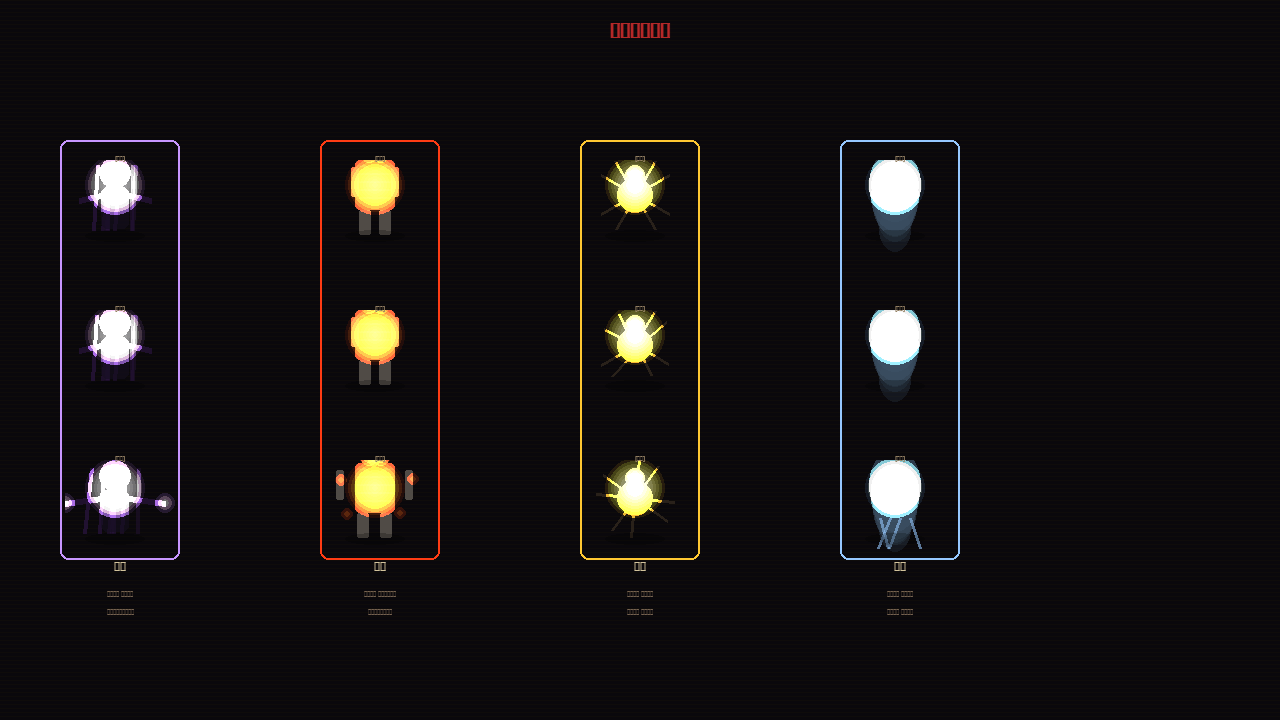
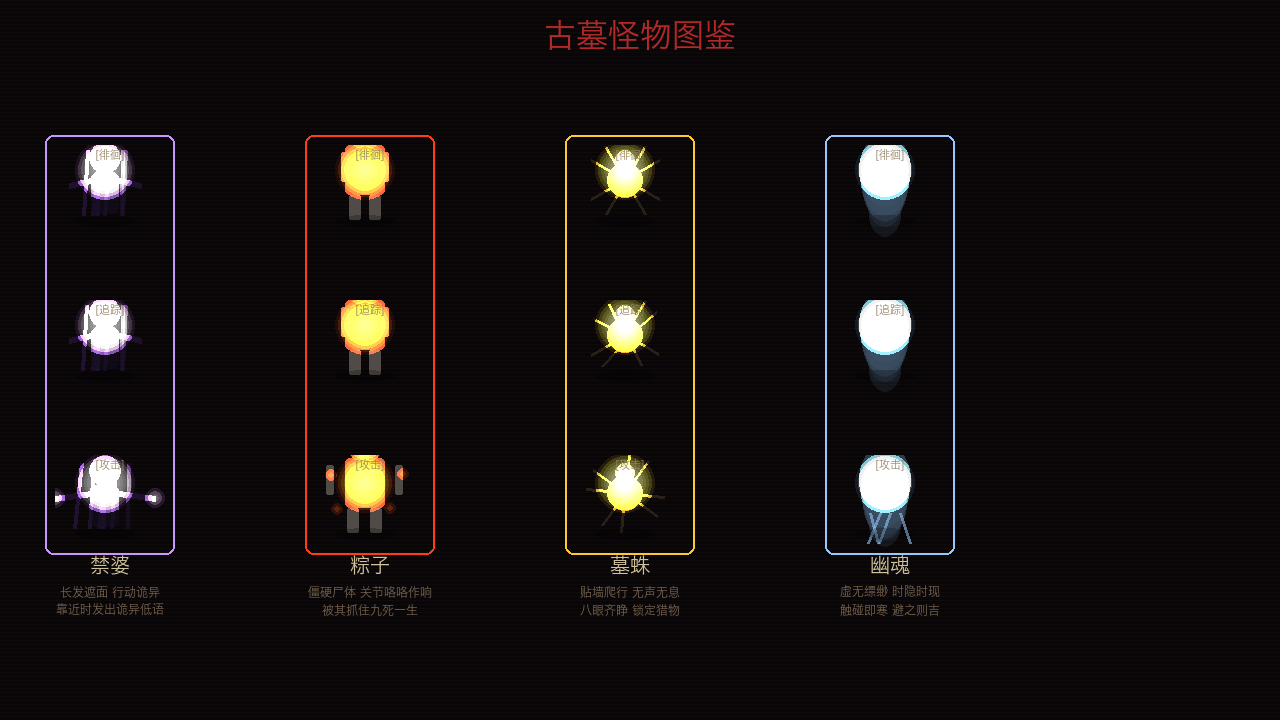
📸 添加游戏测试效果图 (8张) + 更新README
测试效果截图：
- 01_main_menu.png - 主菜单（中文字体验证通过）
- 02_character_showcase.png - 角色展示（吴邪/胖子/张起灵）
- 03_monster_showcase.png - 怪物图鉴（禁婆/粽子/墓蛛/幽魂）
- 04_particle_effects.png - 5种粒子特效
- 05_level_scenes.png - 六大关卡场景
- 06_game_ui.png - 完整游戏界面
- 07_puzzle_system.png - 六大谜题系统
- 08_atmosphere.png - 沉浸式墓室氛围

README更新：
- 添加GitHub仓库地址
- 内嵌所有测试截图（使用raw链接）
- 简化项目结构说明

diff --git a/README.md b/README.md
@@ -2,11 +2,12 @@
 
 > 根据南派三叔《盗墓笔记》改编 | 第三人称探险解谜 + 轻度恐怖
 
+**GitHub**: https://github.com/ahouhou/tomb-game
+
 ---
 
 <p align="center">
-  <img src="game_screenshots/01_main_menu.png" width="100%" alt="主菜单"/>
-  <img src="game_screenshots/06_game_ui.png" width="100%" alt="游戏界面"/>
+  <img src="https://raw.githubusercontent.com/ahouhou/tomb-game/main/game_screenshots/01_main_menu.png" width="100%" alt="主菜单"/>
 </p>
 
 ---
@@ -35,6 +36,38 @@
 | `鼠标左键` | 谜题交互 |
 | `H` | 显示/隐藏提示 |
 | `ESC` | 暂停 |
+
+---
+
+## 🎨 游戏截图
+
+<p align="center">
+  <img src="https://raw.githubusercontent.com/ahouhou/tomb-game/main/game_screenshots/02_character_showcase.png" width="100%" alt="角色展示"/>
+</p>
+
+<p align="center">
+  <img src="https://raw.githubusercontent.com/ahouhou/tomb-game/main/game_screenshots/03_monster_showcase.png" width="100%" alt="怪物图鉴"/>
+</p>
+
+<p align="center">
+  <img src="https://raw.githubusercontent.com/ahouhou/tomb-game/main/game_screenshots/04_particle_effects.png" width="100%" alt="粒子特效"/>
+</p>
+
+<p align="center">
+  <img src="https://raw.githubusercontent.com/ahouhou/tomb-game/main/game_screenshots/05_level_scenes.png" width="100%" alt="关卡场景"/>
+</p>
+
+<p align="center">
+  <img src="https://raw.githubusercontent.com/ahouhou/tomb-game/main/game_screenshots/06_game_ui.png" width="100%" alt="游戏UI"/>
+</p>
+
+<p align="center">
+  <img src="https://raw.githubusercontent.com/ahouhou/tomb-game/main/game_screenshots/07_puzzle_system.png" width="100%" alt="谜题系统"/>
+</p>
+
+<p align="center">
+  <img src="https://raw.githubusercontent.com/ahouhou/tomb-game/main/game_screenshots/08_atmosphere.png" width="100%" alt="氛围场景"/>
+</p>
 
 ---
 
@@ -87,10 +120,11 @@
 
 - **程序化美术资源** — 所有图片（PIL）程序生成，无须外部美术文件
 - **动态动画系统** — 行走/呼吸/尘土粒子/阴影，全部实时渲染
-- **粒子特效引擎** — 5种粒子类型（尘土/血腥/火焰/魔法/骨骼）
+- **粒子特效引擎** — 5种粒子类型（尘土/血腥/火焰/魔法/骨骼碎片）
 - **手电筒光锥** — 跟随角色方向，营造黑灯瞎火的真实氛围
 - **全局暗色遮罩** — 极限沉浸感
 - **屏幕震动** — 踩陷阱/击杀时触发
+- **跨平台中文字体** — 自动适配 macOS/Windows/Linux
 - **Pygame 2.6** — 高性能双缓冲渲染
 
 ---
@@ -98,10 +132,7 @@
 ## 🛠 安装运行
 
 ```bash
-# Python 3.8+
 pip install pygame pillow numpy
-
-# 运行游戏
 cd ~/tomb-game
 python3 main.py
 ```
@@ -113,36 +144,17 @@ python3 main.py
 ```
 tomb-game/
 ├── main.py                    # 主程序入口
+├── README.md                  # 项目说明
 ├── src/
-│   ├── config.py              # 全局配置（窗口/颜色/参数）
-│   ├── animator.py            # 动态渲染系统（角色/怪物）
+│   ├── config.py              # 全局配置 + 中文字体系统
+│   ├── animator.py            # 动态渲染系统（角色/怪物/粒子）
 │   ├── entities.py            # 实体系统（玩家/怪物/粒子）
 │   ├── puzzle_system.py       # 谜题交互（6种谜题）
 │   ├── level_data.py          # 关卡数据（6关）
 │   └── resources.py           # 美术资源生成器
-├── assets/images/
-│   ├── backgrounds/            # 6张关卡背景
-│   ├── characters/            # 角色立绘
-│   ├── monsters/              # 怪物图鉴
-│   ├── items/                 # 道具图标
-│   └── ui/                   # UI元素
-└── game_screenshots/          # 测试效果图
+├── assets/images/             # 美术资源（程序生成）
+└── game_screenshots/           # 测试效果图
 ```
-
----
-
-## 🎨 测试效果图
-
-| 截图 | 内容 |
-|:---|:---|
-| `01_main_menu.png` | 游戏主菜单 |
-| `02_character_showcase.png` | 角色展示（吴邪/胖子/张起灵） |
-| `03_monster_showcase.png` | 怪物图鉴（禁婆/粽子/墓蛛/幽魂） |
-| `04_particle_effects.png` | 粒子特效（5种类型） |
-| `05_level_scenes.png` | 六大关卡场景 |
-| `06_game_ui.png` | 完整游戏UI界面 |
-| `07_puzzle_system.png` | 六大谜题系统 |
-| `08_atmosphere.png` | 沉浸式墓室氛围 |
 
 ---
 
